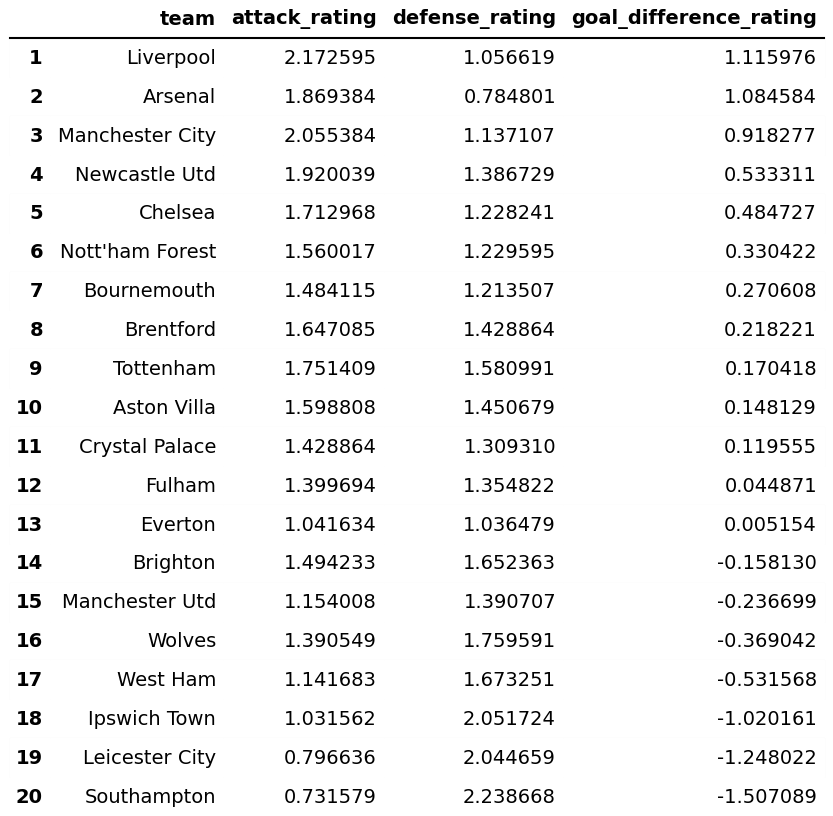
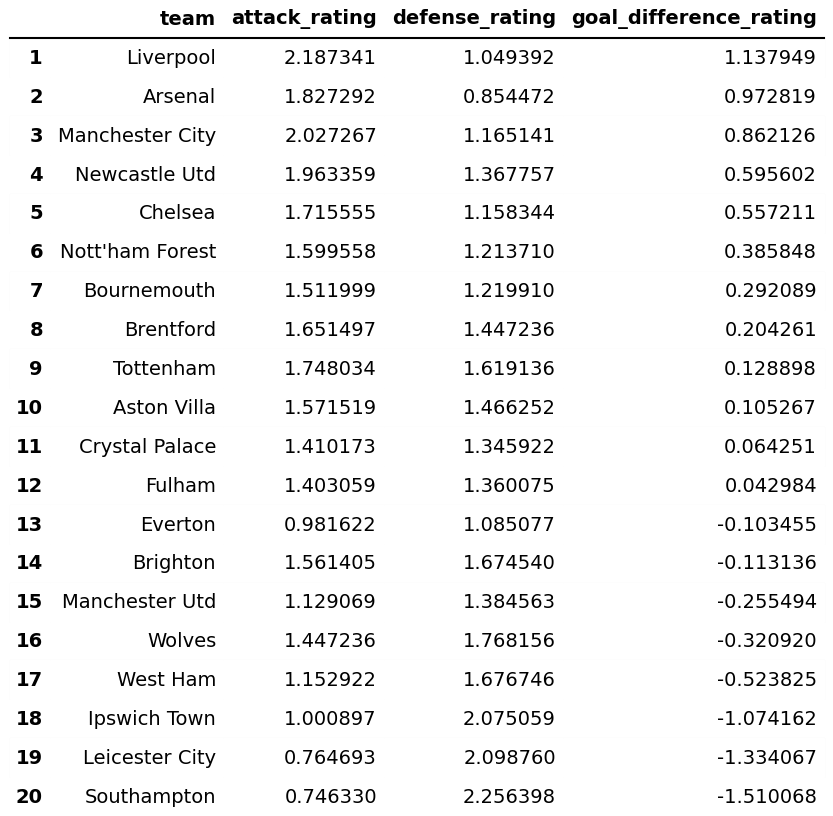
add Veikkausliiga

diff --git a/src/dixon_coles.py b/src/dixon_coles.py
@@ -38,6 +38,7 @@ def fetch_data(league_name, urls):
     fixtures = matches_season[(matches_season.Home.notnull()) & (matches_season.Score.isnull())]
     logging.info(f"Fetching league table for the current season of {league_name}...")
     league_table = pd.read_html(urls['url_league_table'])[0]
+    league_table = league_table[league_table.Squad.notnull()].reset_index(drop=True)
     teams = np.sort(league_table['Squad'].unique())
     
     logging.info(f"Processing data {league_name} data...")
@@ -45,7 +46,11 @@ def fetch_data(league_name, urls):
     matches['Date'] = pd.to_datetime(matches['Date'])
     df = matches[matches['Score'].notnull()].copy()
     df['goals_home'] = df['Score'].apply(lambda x: x.split('–')[0])
+    # handle matches with extra time / penalty shootout
+    df['goals_home'] = df['goals_home'].apply(lambda x: x.split()[-1]) 
     df['goals_away'] = df['Score'].apply(lambda x: x.split('–')[1])
+    # handle matches with extra time / penalty shootout
+    df['goals_away'] = df['goals_away'].apply(lambda x: x.split()[0])
     df.rename(columns={'Home': 'team_home', 'Away': 'team_away', 'Date': 'date'}, inplace=True)
     df = df.sort_values('date').reset_index(drop=True)
     current_date = dt.datetime.today()
@@ -72,6 +77,13 @@ def create_model(df):
 
     return clf
 
+def get_median_from_list(numbers):
+    # Sort the list
+    sorted_numbers = sorted(numbers)
+    # Get the middle index
+    middle_index = len(sorted_numbers) // 2
+    # Return the middle value
+    return sorted_numbers[middle_index]
 
 def create_team_ratings(clf, teams, args):
     """
@@ -85,9 +97,9 @@ def create_team_ratings(clf, teams, args):
     defense_params = {k: v for k, v in params.items() if k.startswith('defence_')}
 
     # Compute median values
-    median_attack = np.median(list(attack_params.values()))
-    median_defense = np.median(list(defense_params.values()))
-
+    median_attack = get_median_from_list(list(attack_params.values()))
+    median_defense = get_median_from_list(list(defense_params.values()))
+    
     # Find teams with median values
     median_attack_team = [team.split('attack_')[1] for team, value in attack_params.items() if value == median_attack]
     median_defense_team = [team.split('defence_')[1] for team, value in defense_params.items() if value == median_defense]
@@ -147,11 +159,12 @@ def process_simulation_results(simulation_results_df, nr_simulations, args):
 
     logging.info("Processing simulation results...")
     
+    max_rank = simulation_results_df['Rk'].max()
     result_matrix = (
         simulation_results_df.groupby(['Squad', 'Rk'])
         .size()
         .unstack(fill_value=0)
-        .reindex(columns=range(1, 21), fill_value=0)  # Ensure columns go from 1 to 20
+        .reindex(columns=range(1, max_rank+1), fill_value=0)  # Ensure columns go from 1 to max_rank
     )
 
     # normalize to percentage
@@ -160,7 +173,7 @@ def process_simulation_results(simulation_results_df, nr_simulations, args):
     # Reorder the matrix based on average final league position
     sorted_teams = simulation_results_df.groupby(['Squad'])['Rk'].mean().sort_values().index
     sorted_matrix = result_matrix.loc[sorted_teams]
-    breakpoint()
+    
     if args.save_simulation_results:
         # Get the current timestamp in YY-MM-DD_HR-MIN-SEC format
         timestamp = dt.datetime.now().strftime("%y-%m-%d_%H-%M-%S")
@@ -206,7 +219,7 @@ if __name__ == "__main__":
         "--league",
         type=str,
         default="ENG Premier League",
-        choices=["ENG Premier League", "ESP La Liga"],
+        choices=["ENG Premier League", "ESP La Liga", "FIN Veikkausliiga"],
         help="Name of the league to process (e.g., 'ENG Premier League'). Default is 'ENG Premier League'."
     )
     parser.add_argument(

diff --git a/src/utils.py b/src/utils.py
@@ -122,10 +122,10 @@ def simulate_season(league_table, fixtures, clf):
         outcome, home_goals, away_goals = simulate_match(clf, home_team_, away_team_)
         update_league_table(league_table, home_team_, away_team_, outcome, home_goals, away_goals, fixture)
     
-    assert np.all(league_table['MP']==38), 'All teams have not played 38 games!'
+    assert len(np.unique(league_table['MP'])) == 1, 'Not all teams have played the same number of matches!'
 
     league_table = league_table.sort_values(by=['Pts', 'GD', 'GF'], ascending=False)
-    league_table['Rk'] = np.arange(1,21)
+    league_table['Rk'] = np.arange(1,league_table.shape[0]+1)
 
     return league_table
 

diff --git a/readme.md b/readme.md
@@ -1,6 +1,6 @@
 # Introduction
 
-The notebook poisson_model.ipynb creates a simple poisson model for predicting the Premier League season final rankings. 
+The script src/dixon_coles.py can be used to evaluate the strenght of each football team in a given league and simulate season end rankings. Supported leagues currently are the English Premier League, Spanish La Liga and Finnish Veikkausliiga. 
 
 # Final league position predictions
 
